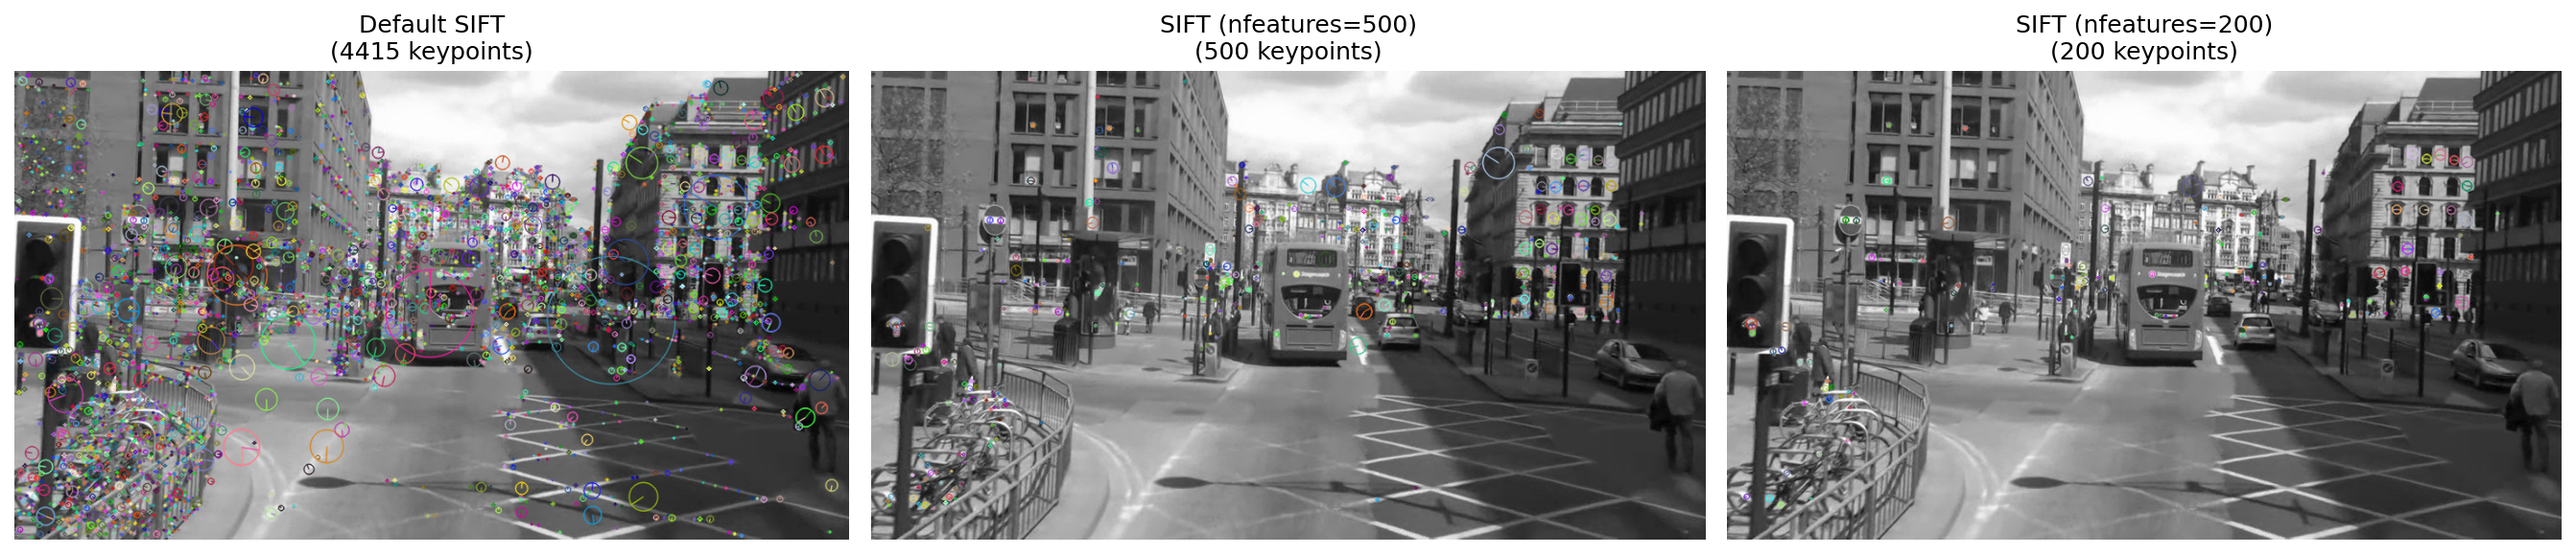
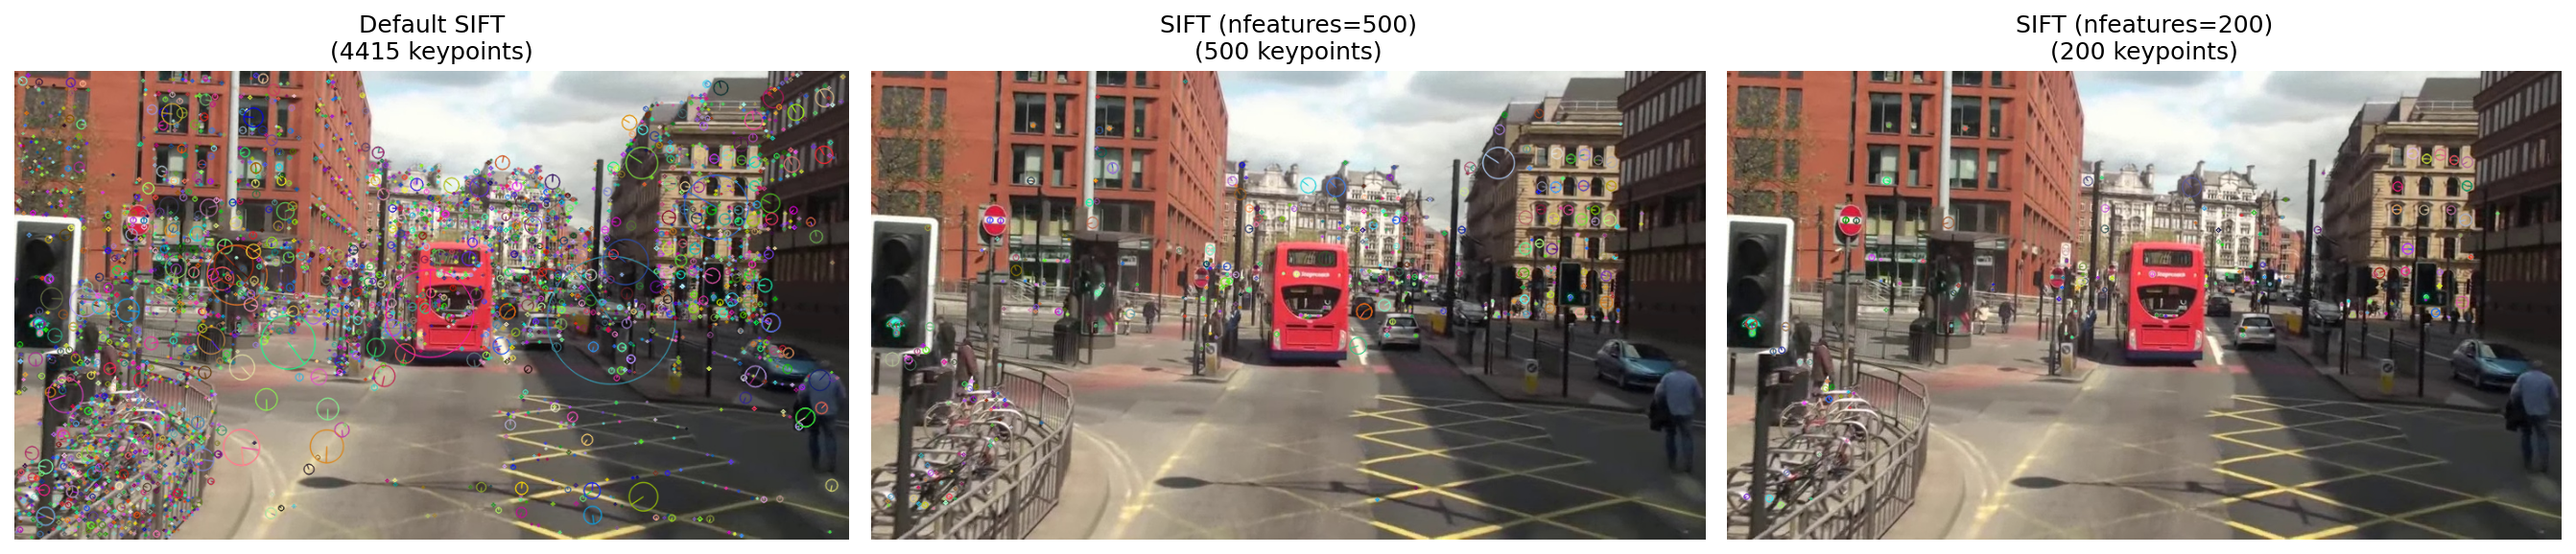
흑백 수정

diff --git a/chapter04/01_sift_keypoints.py b/chapter04/01_sift_keypoints.py
@@ -44,7 +44,7 @@ print(f"nfeatures=200 - 특징점 개수: {len(keypoints_200)}")
 
 # 1. 기본 SIFT 결과를 이미지에 그리기
 img_keypoints_default = cv2.drawKeypoints(
-    img_gray,  # 그리기를 할 입력 그레이스케일 이미지
+    img_path,  # 그리기를 할 입력 컬러 이미지
     keypoints_default,  # 그릴 특징점 리스트
     None,  # 출력 이미지 (None으로 설정하면 새로 생성)
     flags=cv2.DRAW_MATCHES_FLAGS_DRAW_RICH_KEYPOINTS  # 특징점의 방향과 크기를 표시하는 플래그
@@ -52,7 +52,7 @@ img_keypoints_default = cv2.drawKeypoints(
 
 # 2. nfeatures=500 결과를 이미지에 그리기
 img_keypoints_500 = cv2.drawKeypoints(
-    img_gray,  # 입력 그레이스케일 이미지
+    img_path,  # 입력 컬러 이미지
     keypoints_500,  # 특징점 리스트 (500개 제한)
     None,  # 출력 이미지
     flags=cv2.DRAW_MATCHES_FLAGS_DRAW_RICH_KEYPOINTS  # 특징점 시각화 옵션
@@ -60,7 +60,7 @@ img_keypoints_500 = cv2.drawKeypoints(
 
 # 3. nfeatures=200 결과를 이미지에 그리기
 img_keypoints_200 = cv2.drawKeypoints(
-    img_gray,  # 입력 그레이스케일 이미지
+    img_path,  # 입력 컬러 이미지
     keypoints_200,  # 특징점 리스트 (200개 제한)
     None,  # 출력 이미지
     flags=cv2.DRAW_MATCHES_FLAGS_DRAW_RICH_KEYPOINTS  # 특징점 시각화 옵션

diff --git a/chapter04/README.md b/chapter04/README.md
@@ -11,8 +11,9 @@
 **핵심 개념 및 자세한 설명**
 - **SIFT(Sacle-Invariant Feature Transform)**: 이미지의 크기, 회전에 강인한 특징점 검출 알고리즘
 - **nfeatures**: 검출할 최대 특징점 개수 지정
-- **cv2.drawKeypoints**: 특징점의 위치, 크기, 방향을 이미지에 시각화
-- **matplotlib**: 결과 이미지 시각화 및 저장
+- **cv2.drawKeypoints**: 컬러 이미지에 특징점의 위치, 크기, 방향을 시각화
+- **matplotlib**: 원본 이미지와 특징점 이미지를 나란히 표시하여 결과 비교
+- **DRAW_MATCHES_FLAGS_DRAW_RICH_KEYPOINTS**: 특징점의 방향(각도)과 크기를 명확하게 표시하는 플래그
 
 <details>
 <summary><b>전체 코드 (주석 포함)</b></summary>
@@ -64,7 +65,7 @@ print(f"nfeatures=200 - 특징점 개수: {len(keypoints_200)}")
 
 # 1. 기본 SIFT 결과를 이미지에 그리기
 img_keypoints_default = cv2.drawKeypoints(
-    img_gray,  # 그리기를 할 입력 그레이스케일 이미지
+    img_path,  # 그리기를 할 입력 컬러 이미지
     keypoints_default,  # 그릴 특징점 리스트
     None,  # 출력 이미지 (None으로 설정하면 새로 생성)
     flags=cv2.DRAW_MATCHES_FLAGS_DRAW_RICH_KEYPOINTS  # 특징점의 방향과 크기를 표시하는 플래그
@@ -72,7 +73,7 @@ img_keypoints_default = cv2.drawKeypoints(
 
 # 2. nfeatures=500 결과를 이미지에 그리기
 img_keypoints_500 = cv2.drawKeypoints(
-    img_gray,  # 입력 그레이스케일 이미지
+    img_path,  # 입력 컬러 이미지
     keypoints_500,  # 특징점 리스트 (500개 제한)
     None,  # 출력 이미지
     flags=cv2.DRAW_MATCHES_FLAGS_DRAW_RICH_KEYPOINTS  # 특징점 시각화 옵션
@@ -80,7 +81,7 @@ img_keypoints_500 = cv2.drawKeypoints(
 
 # 3. nfeatures=200 결과를 이미지에 그리기
 img_keypoints_200 = cv2.drawKeypoints(
-    img_gray,  # 입력 그레이스케일 이미지
+    img_path,  # 입력 컬러 이미지
     keypoints_200,  # 특징점 리스트 (200개 제한)
     None,  # 출력 이미지
     flags=cv2.DRAW_MATCHES_FLAGS_DRAW_RICH_KEYPOINTS  # 특징점 시각화 옵션
@@ -180,7 +181,7 @@ print(f"  nfeatures=200: {len(keypoints_200)} 개 (원래 대비 {len(keypoints_
 ```python
 sift = cv2.SIFT_create()
 keypoints, descriptors = sift.detectAndCompute(img_gray, None)
-img_keypoints = cv2.drawKeypoints(img_gray, keypoints, None, flags=cv2.DRAW_MATCHES_FLAGS_DRAW_RICH_KEYPOINTS)
+img_keypoints = cv2.drawKeypoints(img_path, keypoints, None, flags=cv2.DRAW_MATCHES_FLAGS_DRAW_RICH_KEYPOINTS)
 ```
 
 ## 결과물
